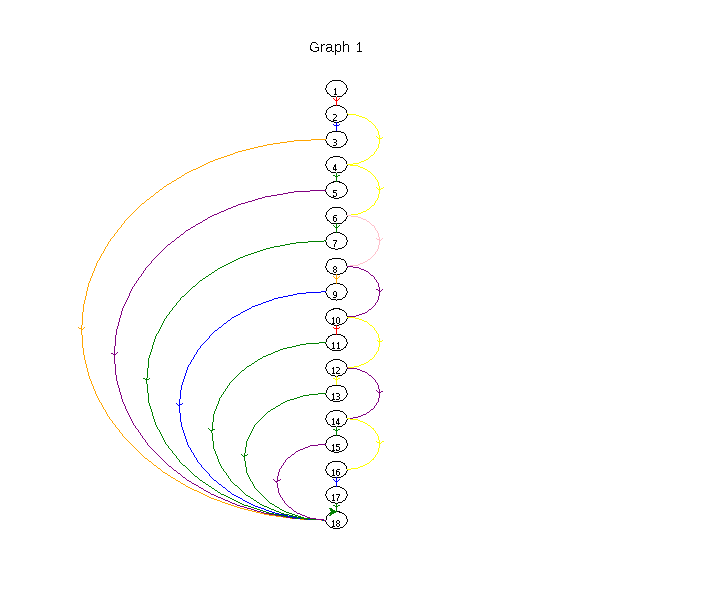
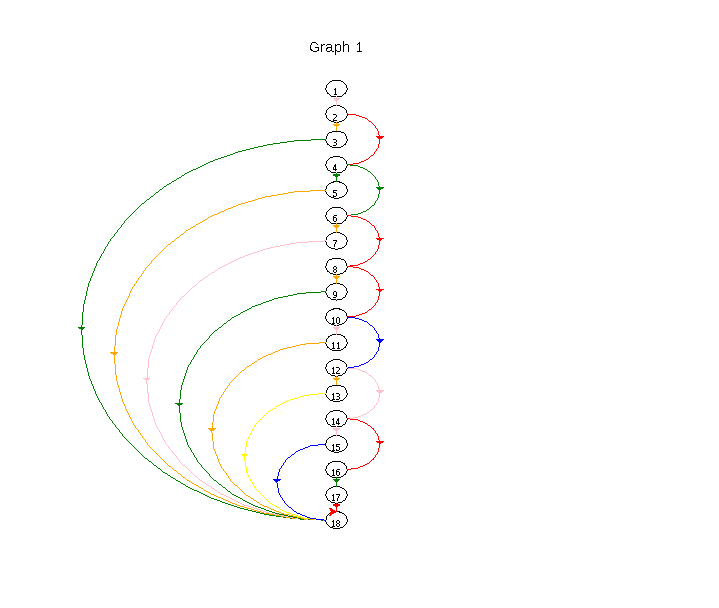
Added filled arrows with their respective colors

Changed region(s): [[0.306, 0.8125, 0.4284, 0.875], [0.2448, 0.7812, 0.306, 0.8125], [0.459, 0.8125, 0.4896, 0.8438]]

diff --git a/CreateNodesAndConnections.py b/CreateNodesAndConnections.py
@@ -38,11 +38,11 @@ def create_a_line_between_nodes(node1,node2):
 	canvas.setposition(node1x,node1y)
 	canvas.pendown()
 	canvas.setposition((node2x+node1x)/2,(node2y+node1y)/2)
+	canvas.begin_fill()
 	canvas.setposition((node2x+node1x)/2 + ARROW_LENGTH, (node2y+node1y)/2 + ARROW_LENGTH)
-	canvas.penup()
 	canvas.setposition((node2x+node1x)/2 - ARROW_LENGTH, (node2y+node1y)/2 + ARROW_LENGTH)
-	canvas.pendown()
 	canvas.setposition((node2x+node1x)/2,(node2y+node1y)/2)
+	canvas.end_fill()
 	canvas.setposition(node2x,node2y)
 
 
@@ -81,10 +81,9 @@ def create_an_arc(pos1,pos2,going_down,direction="RIGHT"):
 	canvas.pendown()
 	canvas.circle(rad_direct*radius,direct*90)
 	x,y = canvas.pos()
-
+	canvas.begin_fill()
 	if going_down:
 		canvas.setposition(x+ARROW_LENGTH,y+ARROW_LENGTH)
-		canvas.penup()
 		canvas.setposition(x-ARROW_LENGTH,y+ARROW_LENGTH)
 	else:
 		canvas.setposition(x+ARROW_LENGTH,y-ARROW_LENGTH)
@@ -93,6 +92,7 @@ def create_an_arc(pos1,pos2,going_down,direction="RIGHT"):
 
 	canvas.pendown()
 	canvas.setposition(x,y)
+	canvas.end_fill()
 	canvas.circle(rad_direct*radius,direct*90)
 	canvas.setheading(0)
 
